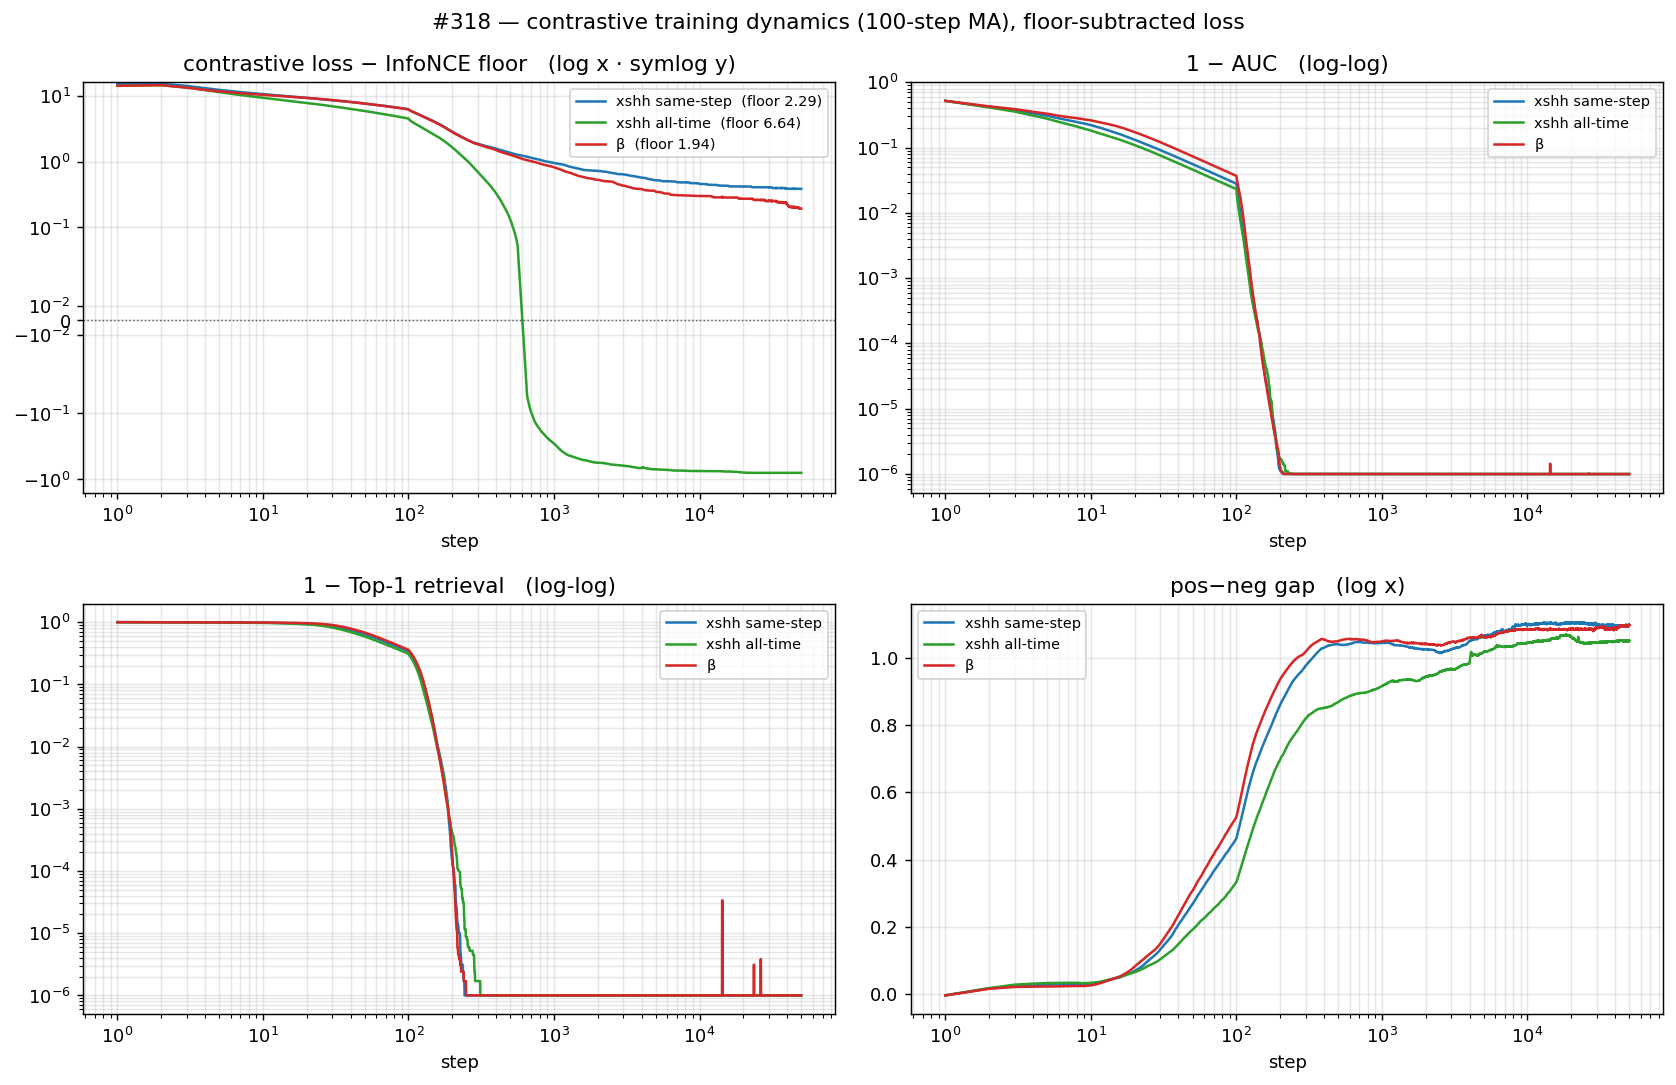
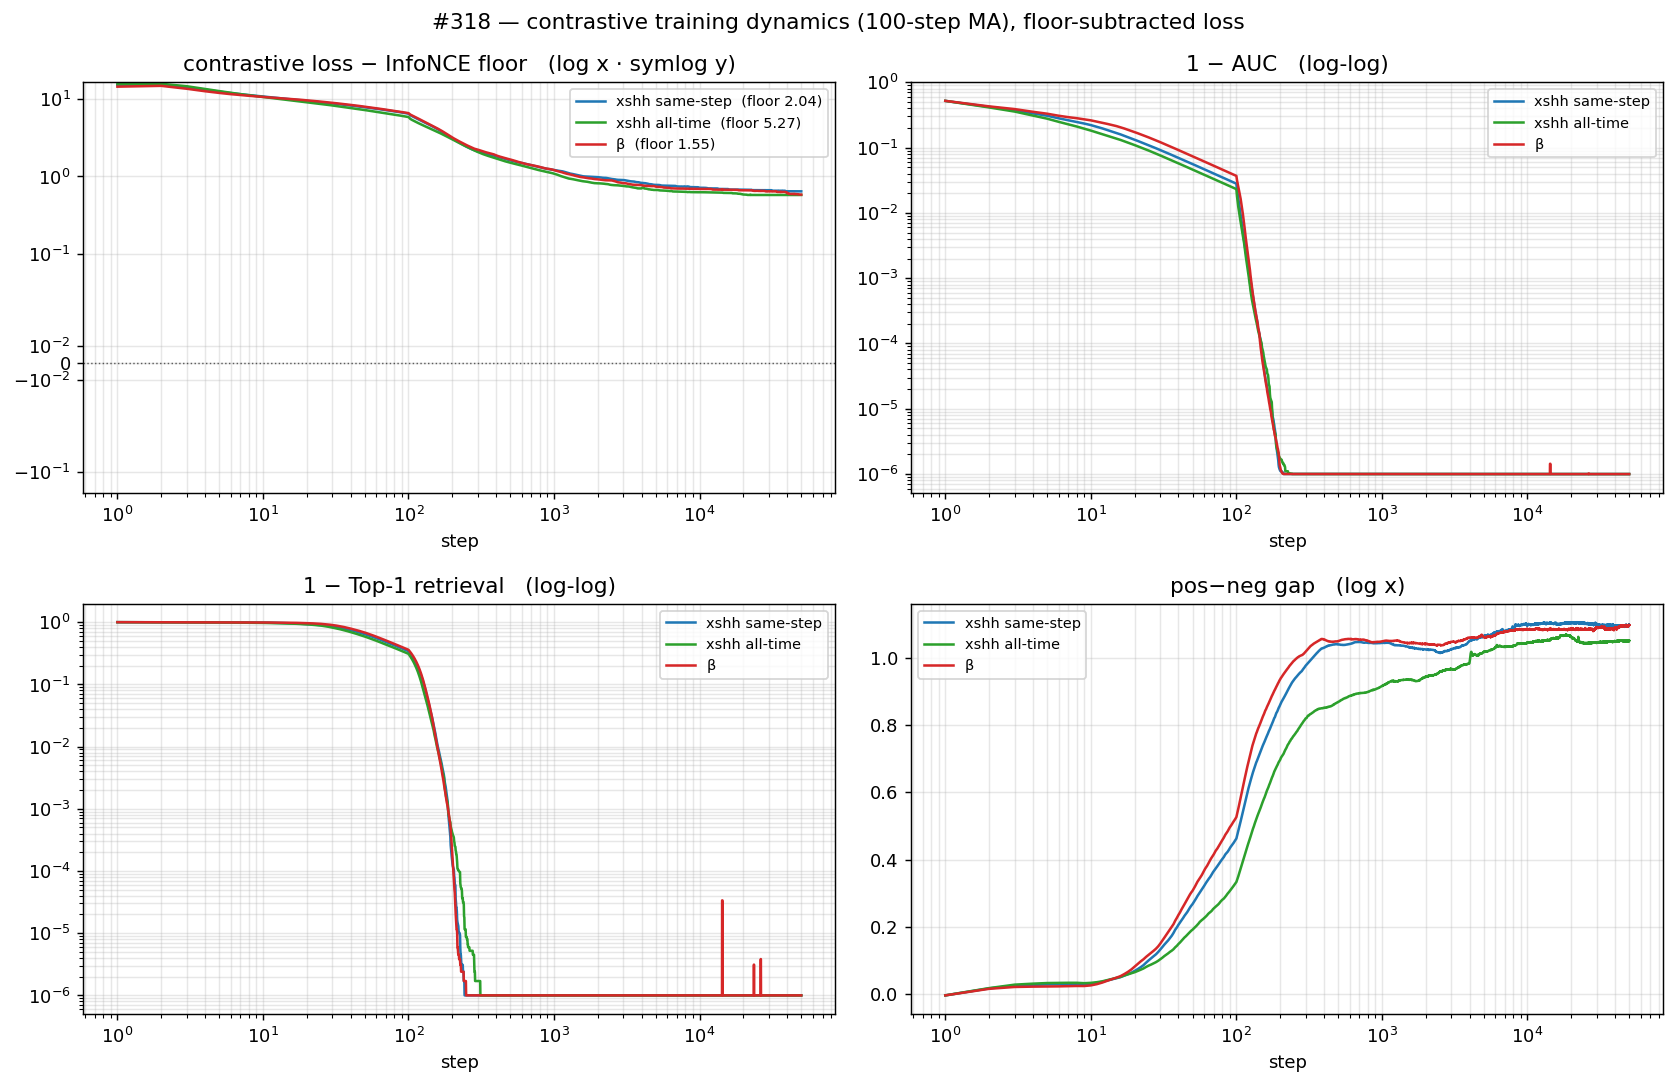
fix(#318): correct latent T=64 (not 256); wire forked-arma + launch the arm
CORRECTION: HFStreamingLoader crops to T_RAW=1024 (ignores --t-raw 4096), so
latent T = 1024//16 = 64 (verified by model forward), NOT 256. Fixes the
floor/negative-count numbers (floors 1.55/2.04/5.27; N 82k/147k/4.26M; ratios
1.79x/52x — not 1.94/2.29/6.64, 128x) and the all-time Gram size (~1GB not
17GB). Floor-subtracted excesses are now all ABOVE floor (+0.58/+0.64/+0.57),
retracting the 'all-time below floor' claim (a T=256 artifact). GM-MASE verdict
unaffected (measured).

Forked-continuation arm (user follow-up 2, prioritized): dataloader
MixedForkedArmaLoader (synth length matched to HF window so no cat-mismatch) +
--synth-kind forked-arma + train_backbone_forked.sh (all-time arm + 50% forked
ARIMA pairs). Smoke-verified (loss 21->12, AUC->0.99). LAUNCHED on GPU 0.

vs-step preempted (re-runnable) to free GPU 0 for this per the user's deadline.

diff --git a/src/dataloader.py b/src/dataloader.py
@@ -985,3 +985,122 @@ def create_mixed_composite_dataloader(
         synth_bs=synth_bs, T_raw=T_raw, C=C, seed=seed,
         emit_freq_ids=emit_freq_ids, synth_kwargs=synth_kwargs,
     )
+
+
+class MixedForkedArmaLoader:
+    """HF + on-the-fly *forked-continuation ARIMA* synth mix (#318 follow-up).
+
+    Synth half comes from :func:`src.synthetic_forked_arma.generate_forked_arma_batch`,
+    which fills ADJACENT synth rows (2k, 2k+1) with a forked pair: identical
+    prefix, divergent perturbed-ARMA continuation. The synth block is appended
+    after the HF block, so synth pairs occupy global rows
+    (hf_bs+2k, hf_bs+2k+1) — a pair-aware loss can reconstruct that from hf_bs.
+    Forked-ARMA series carry no canonical frequency/seasonality → label 0.
+    """
+
+    def __init__(self, hf_loader, synth_bs, T_raw=1024, C=4, seed=None,
+                 emit_freq_ids=False, synth_kwargs=None):
+        self.hf_loader = hf_loader
+        self.synth_bs = synth_bs
+        self.T_raw = T_raw
+        self.C = C
+        self.emit_freq_ids = emit_freq_ids
+        self._seed = seed
+        self._synth_kwargs = dict(synth_kwargs or {})
+
+    def __iter__(self):
+        from src.synthetic_forked_arma import generate_forked_arma_batch
+        from src.freq_embedding import SOURCE_ID_TO_LABELS
+
+        rng = np.random.default_rng(self._seed)
+        hf_iter = iter(self.hf_loader)
+        max_sid = max(SOURCE_ID_TO_LABELS.keys())
+        sid_to_freq = torch.zeros(max_sid + 1, dtype=torch.long)
+        sid_to_seas = torch.zeros(max_sid + 1, dtype=torch.long)
+        for sid, (fid, eid) in SOURCE_ID_TO_LABELS.items():
+            sid_to_freq[sid] = fid
+            sid_to_seas[sid] = eid
+
+        while True:
+            try:
+                hf_batch = next(hf_iter)
+            except StopIteration:
+                return
+            if self.emit_freq_ids and isinstance(hf_batch, tuple):
+                x_hf, hf_source_ids = hf_batch
+            else:
+                x_hf = hf_batch
+                hf_source_ids = None
+            hf_bs = x_hf.shape[0]
+
+            if self.synth_bs > 0:
+                # Match the synth length to the ACTUAL HF window length
+                # (HFStreamingLoader crops to the module constant T_RAW=1024,
+                # ignoring T_raw), so the real+synth cat never size-mismatches.
+                synth_T = x_hf.shape[1] if hf_bs > 0 else self.T_raw
+                if self.emit_freq_ids:
+                    x_syn, freq_syn, seas_syn = generate_forked_arma_batch(
+                        self.synth_bs, T_raw=synth_T, C=self.C, rng=rng,
+                        return_labels=True, **self._synth_kwargs,
+                    )
+                else:
+                    x_syn = generate_forked_arma_batch(
+                        self.synth_bs, T_raw=synth_T, C=self.C, rng=rng,
+                        **self._synth_kwargs,
+                    )
+                x = torch.cat([x_hf, x_syn], dim=0)
+            else:
+                x = x_hf
+
+            if self.emit_freq_ids:
+                if hf_source_ids is not None:
+                    safe_sids = hf_source_ids.clamp(min=0, max=max_sid)
+                    freq_hf = sid_to_freq[safe_sids]
+                    seas_hf = sid_to_seas[safe_sids]
+                else:
+                    freq_hf = torch.zeros(hf_bs, dtype=torch.long)
+                    seas_hf = torch.zeros(hf_bs, dtype=torch.long)
+                if self.synth_bs > 0:
+                    freq = torch.cat([freq_hf, freq_syn], dim=0)
+                    seas = torch.cat([seas_hf, seas_syn], dim=0)
+                else:
+                    freq, seas = freq_hf, seas_hf
+                yield x, freq, seas
+            else:
+                yield x
+
+
+def create_mixed_forked_arma_dataloader(
+    repo_id: str, batch_size: int = 24, C: int = 4, mix_ratio: float = 0.5,
+    path_in_repo: str = None, split: str = "train",
+    skip_rows: int = 0, T_raw: int = 1024, seed: int | None = None,
+    emit_freq_ids: bool = False, synth_kwargs: dict | None = None,
+) -> "MixedForkedArmaLoader":
+    """HF + forked-continuation-ARIMA synth mix; same contract as the composite
+    factory. `synth_kwargs` forwards forked-ARMA knobs (integrate,
+    perturb_sigma, fork_frac_range, std, dimension)."""
+    if not 0.0 <= mix_ratio <= 1.0:
+        raise ValueError(f"mix_ratio must be in [0, 1], got {mix_ratio}")
+    synth_bs = int(round(batch_size * mix_ratio))
+    hf_bs = batch_size - synth_bs
+    if mix_ratio == 0.0 and not emit_freq_ids:
+        return create_hf_dataloader(
+            repo_id=repo_id, batch_size=batch_size, C=C,
+            path_in_repo=path_in_repo, split=split, skip_rows=skip_rows,
+        )
+    hf_loader = HFStreamingLoader(
+        repo_id=repo_id, batch_size=hf_bs, C=C,
+        path_in_repo=path_in_repo, split=split, skip_rows=skip_rows,
+        emit_source_ids=emit_freq_ids,
+    ) if hf_bs > 0 else None
+
+    class _EmptyHFLoader:
+        def __iter__(self):
+            while True:
+                yield torch.empty(0, T_raw, C, dtype=torch.float32)
+
+    return MixedForkedArmaLoader(
+        hf_loader=hf_loader if hf_loader is not None else _EmptyHFLoader(),
+        synth_bs=synth_bs, T_raw=T_raw, C=C, seed=seed,
+        emit_freq_ids=emit_freq_ids, synth_kwargs=synth_kwargs,
+    )

diff --git a/experiments/2026-04-27_freq-embedding/scripts/train.py b/experiments/2026-04-27_freq-embedding/scripts/train.py
@@ -39,6 +39,7 @@ from src.blocks import ATTN_AMP_DIAG
 from src.dataloader import (
     create_mixed_periodic_dataloader,
     create_mixed_composite_dataloader,
+    create_mixed_forked_arma_dataloader,
     create_hf_dataloader,
 )
 from src.loss import contrastive_latent_loss
@@ -365,7 +366,7 @@ def parse_args():
                         "flag, so that baseline column is NOT comparable to "
                         "gathered/single-GPU runs — don't plot them together.")
     p.add_argument("--synth-kind", default="periodic",
-                   choices=["periodic", "composite"],
+                   choices=["periodic", "composite", "forked-arma"],
                    help="On-the-fly synthesizer. 'periodic' (default) is the "
                         "clean single-primitive generator from synthetic_periodic. "
                         "'composite' is the TimesFM-style stacked recipe "
@@ -834,6 +835,14 @@ def main():
             skip_rows=hf_rows_consumed, T_raw=args.t_raw, seed=synth_seed,
             emit_freq_ids=(args.freq_emb_dim > 0 or args.seasonality_emb_dim > 0),
             synth_kwargs=synth_kwargs or None,
+        )
+    elif args.synth_kind == "forked-arma":
+        data_loader = create_mixed_forked_arma_dataloader(
+            repo_id=args.hf_repo, batch_size=args.batch_size, C=C,
+            mix_ratio=args.mix_ratio,
+            path_in_repo=args.hf_path, split=args.split,
+            skip_rows=hf_rows_consumed, T_raw=args.t_raw, seed=synth_seed,
+            emit_freq_ids=(args.freq_emb_dim > 0 or args.seasonality_emb_dim > 0),
         )
     else:
         data_loader = create_mixed_periodic_dataloader(

diff --git a/experiments/2026-05-23_xseries_hh/scripts/plots.py b/experiments/2026-05-23_xseries_hh/scripts/plots.py
@@ -24,11 +24,13 @@ matplotlib.use("Agg")
 import matplotlib.pyplot as plt
 
 # For the InfoNCE floor (re-bases the contrastive loss so arms with different
-# negative counts N are comparable). Training config: τ=0.10, B=T=256, C=1.
+# negative counts N are comparable). Training config: τ=0.10, B=256, C=1, and
+# latent T=64 — the HF streamer crops to T_RAW=1024 (it ignores --t-raw 4096),
+# and 1024//W(=16) = 64. (Verified by a model forward.)
 sys.path.insert(0, "/home/jupyter/workspaces/contrastive-forecasting/.claude/worktrees/cross-series-hh")
 from src.loss import infonce_floor, _effective_negative_count
 
-TAU_TRAIN, B_TRAIN, T_TRAIN, C_TRAIN = 0.10, 256, 256, 1
+TAU_TRAIN, B_TRAIN, T_TRAIN, C_TRAIN = 0.10, 256, 64, 1
 _SHAPE = {"xshh": "cosine_similarity_batch_full_hh_negs_xshh",
           "allt": "cosine_similarity_batch_full_hh_negs_xshh_allt",
           "beta": "cosine_similarity_batch_full_hh_negs"}

diff --git a/experiments/2026-05-23_xseries_hh/RESULTS.md b/experiments/2026-05-23_xseries_hh/RESULTS.md
@@ -61,13 +61,13 @@ the objective. Everything else is byte-for-byte β.
 The loss shapes are `cosine_similarity_batch_full_hh_negs_xshh` and
 `…_xshh_allt` (`src/loss.py`); each exact term set is pinned against an
 independent fp64 reference in `tests/test_loss.py` (`TestCrossSeriesSameStepHH`,
-`TestCrossSeriesAllTimeHH`). The all-time edge's full `[B,B,T-1,T]` Gram would
-be ~17 GB if materialised, so it is **never built**: the forward runs in
-source-batch chunks and the backward is gradient-checkpointed (recomputes one
-chunk at a time), capping peak memory at a single chunk (~0.5 GB) — the same
-memory strategy as FlashAttention. The cost it pays is compute, not memory:
-the cross-series × cross-time similarities are inherently `B²·T²` dot-products,
-~2–3× the same-step step time.
+`TestCrossSeriesAllTimeHH`). The all-time edge's full `[B,B,T-1,T]` Gram is
+≈ 264M entries ≈ **1 GB** at B=256, T=64. The implementation still computes it
+in source-batch chunks with a gradient-checkpointed backward — a conservative
+memory strategy that *would* matter at larger T but is not the binding
+constraint here. The real cost is **compute**: the cross-series × cross-time
+similarities are inherently `B²·T²` dot-products, measured at **~2.5× the
+same-step step time** (6.3 → 2.5 sps).
 
 ### Exact negative set per arm
 
@@ -89,13 +89,16 @@ denominator is then pooled over the whole batch, so the realised pool size is
 | `xshh` — cross-series, **same-step** h↔h | `cos(h_{b,t}, h_{b',t})`, b'≠b | — | B−1 | — |
 | `xs_allt` — cross-series, **all-l** h↔h | `cos(h_{b,t}, h_{b',l})`, b'≠b, ∀l | — | — | (B−1)·T |
 | **per-anchor Σ** | | **T+B** | **T+2B−2** | **T+(B−1)(T+1)** |
-| **pooled N = B·Σ** (B=T=256) | | **131,072** | **196,096** (1.5×) | **16,842,496** (128.5×) |
+| **pooled N = B·Σ** (B=256, T=64) | | **81,920** | **146,944** (1.79×) | **4,259,584** (52×) |
 
 Reading the table: the **same-step** arm swaps β's one adjacent `xy` term for
-`B−1` same-step cross-series partners (net +B−2 per anchor, ~1.5× the pool); the
-**all-time** arm instead adds `(B−1)·T` cross-series partners (~128× the pool).
-The **within-series all-time `hh_all` term (the "different-l" comparisons) is
-identical in all three** — only the cross-series edge changes across the fork.
+`B−1` same-step cross-series partners (net +B−2 per anchor, **1.79×** the pool);
+the **all-time** arm instead adds `(B−1)·T` cross-series partners (**52×** the
+pool). The **within-series all-time `hh_all` term (the "different-l"
+comparisons) is identical in all three** — only the cross-series edge changes
+across the fork. (T = 64 is the latent length: the HF streamer crops windows to
+T_RAW=1024 regardless of `--t-raw`, and 1024 // W(16) = 64 — verified by a model
+forward; this holds for β/v11c too, so all numbers are on the same footing.)
 
 ## Protocol
 
@@ -191,19 +194,18 @@ removes broadly-useful content, not specifically a seasonal/positional code.
 
 All arms share every hyperparameter, so the curves isolate the loss change.
 **Raw losses are not comparable across arms**: the normalized-InfoNCE floor
-`log(1 + N·e^(−1/τ))` grows with the negative count N, which differs ~128×
-(β 131k, same-step 196k, all-time 16.8M → floors **1.94 / 2.29 / 6.64**). The
+`log(1 + N·e^(−1/τ))` grows with the negative count N, which differs ~52×
+(β 82k, same-step 147k, all-time 4.26M → floors **1.55 / 2.04 / 5.27**). The
 loss panel therefore plots each arm's loss **minus its own floor** (log-x,
 symlog-y).
 
-- **β and same-step converge just *above* their floors** — excess **+0.19**
-  (β) vs **+0.38** (same-step) at 50k. So of the same-step arm's +0.55 *raw*
-  gap over β, ~0.35 is merely the larger negative pool; only ~0.19 is genuine
-  extra excess. The cross-series same-step negative barely perturbs the
-  contrastive task.
-- The **all-time** arm converges *below* its uniformity floor (excess
-  **−0.80** at 50k): with 16.8M negatives the cos⁻≈0 reference is loose (the
-  negatives are net anti-aligned).
+- Floor-subtracted, **all three converge to a similar small excess above their
+  floors** — β **+0.58**, same-step **+0.64**, all-time **+0.57** at 50k. So
+  the cross-series negatives (same-step or all-time) barely change the
+  *contrastive* convergence once you account for the larger negative pool: the
+  same-step arm's +0.55 *raw*-loss gap over β is almost entirely the higher
+  floor (more negatives), not worse optimisation. The big differences are in
+  **transfer**, not the contrastive task.
 - AUC and Top-1 retrieval (shown as 1−AUC / 1−Top1, log-log) saturate for all
   arms within a few hundred steps.
 

diff --git a/experiments/2026-05-23_xseries_hh/PLAN.md b/experiments/2026-05-23_xseries_hh/PLAN.md
@@ -24,9 +24,9 @@ Everything else byte-for-β. The arms differ only in which cross-series pairs:
    per-step positional code (the issue's literal spec).
 2. **all-time** `…_xshh_allt`: `cos(h_{b,t}, h_{b',l})` ∀ b' ≠ b, **∀ l** — the
    cross-series analog of β's within-series all-time term; same-step is its
-   l = t slice (strict superset). The full `[B,B,T-1,T]` Gram is never
-   materialised: chunked forward + gradient-checkpointed backward (FlashAttention
-   strategy), peak ≈ one chunk (~0.5 GB). Cost is compute (~2–3× step), not memory.
+   l = t slice (strict superset). Full `[B,B,T-1,T]` Gram ≈ 1 GB at B=256, T=64
+   (latent T; HF crops to 1024, //W=16); chunked + gradient-checkpointed
+   (conservative). Cost is compute: ~2.5× step time (6.3 → 2.5 sps).
 Pinned by `tests/test_loss.py::{TestCrossSeriesSameStepHH,TestCrossSeriesAllTimeHH}`
 (independent fp64 references).
 
